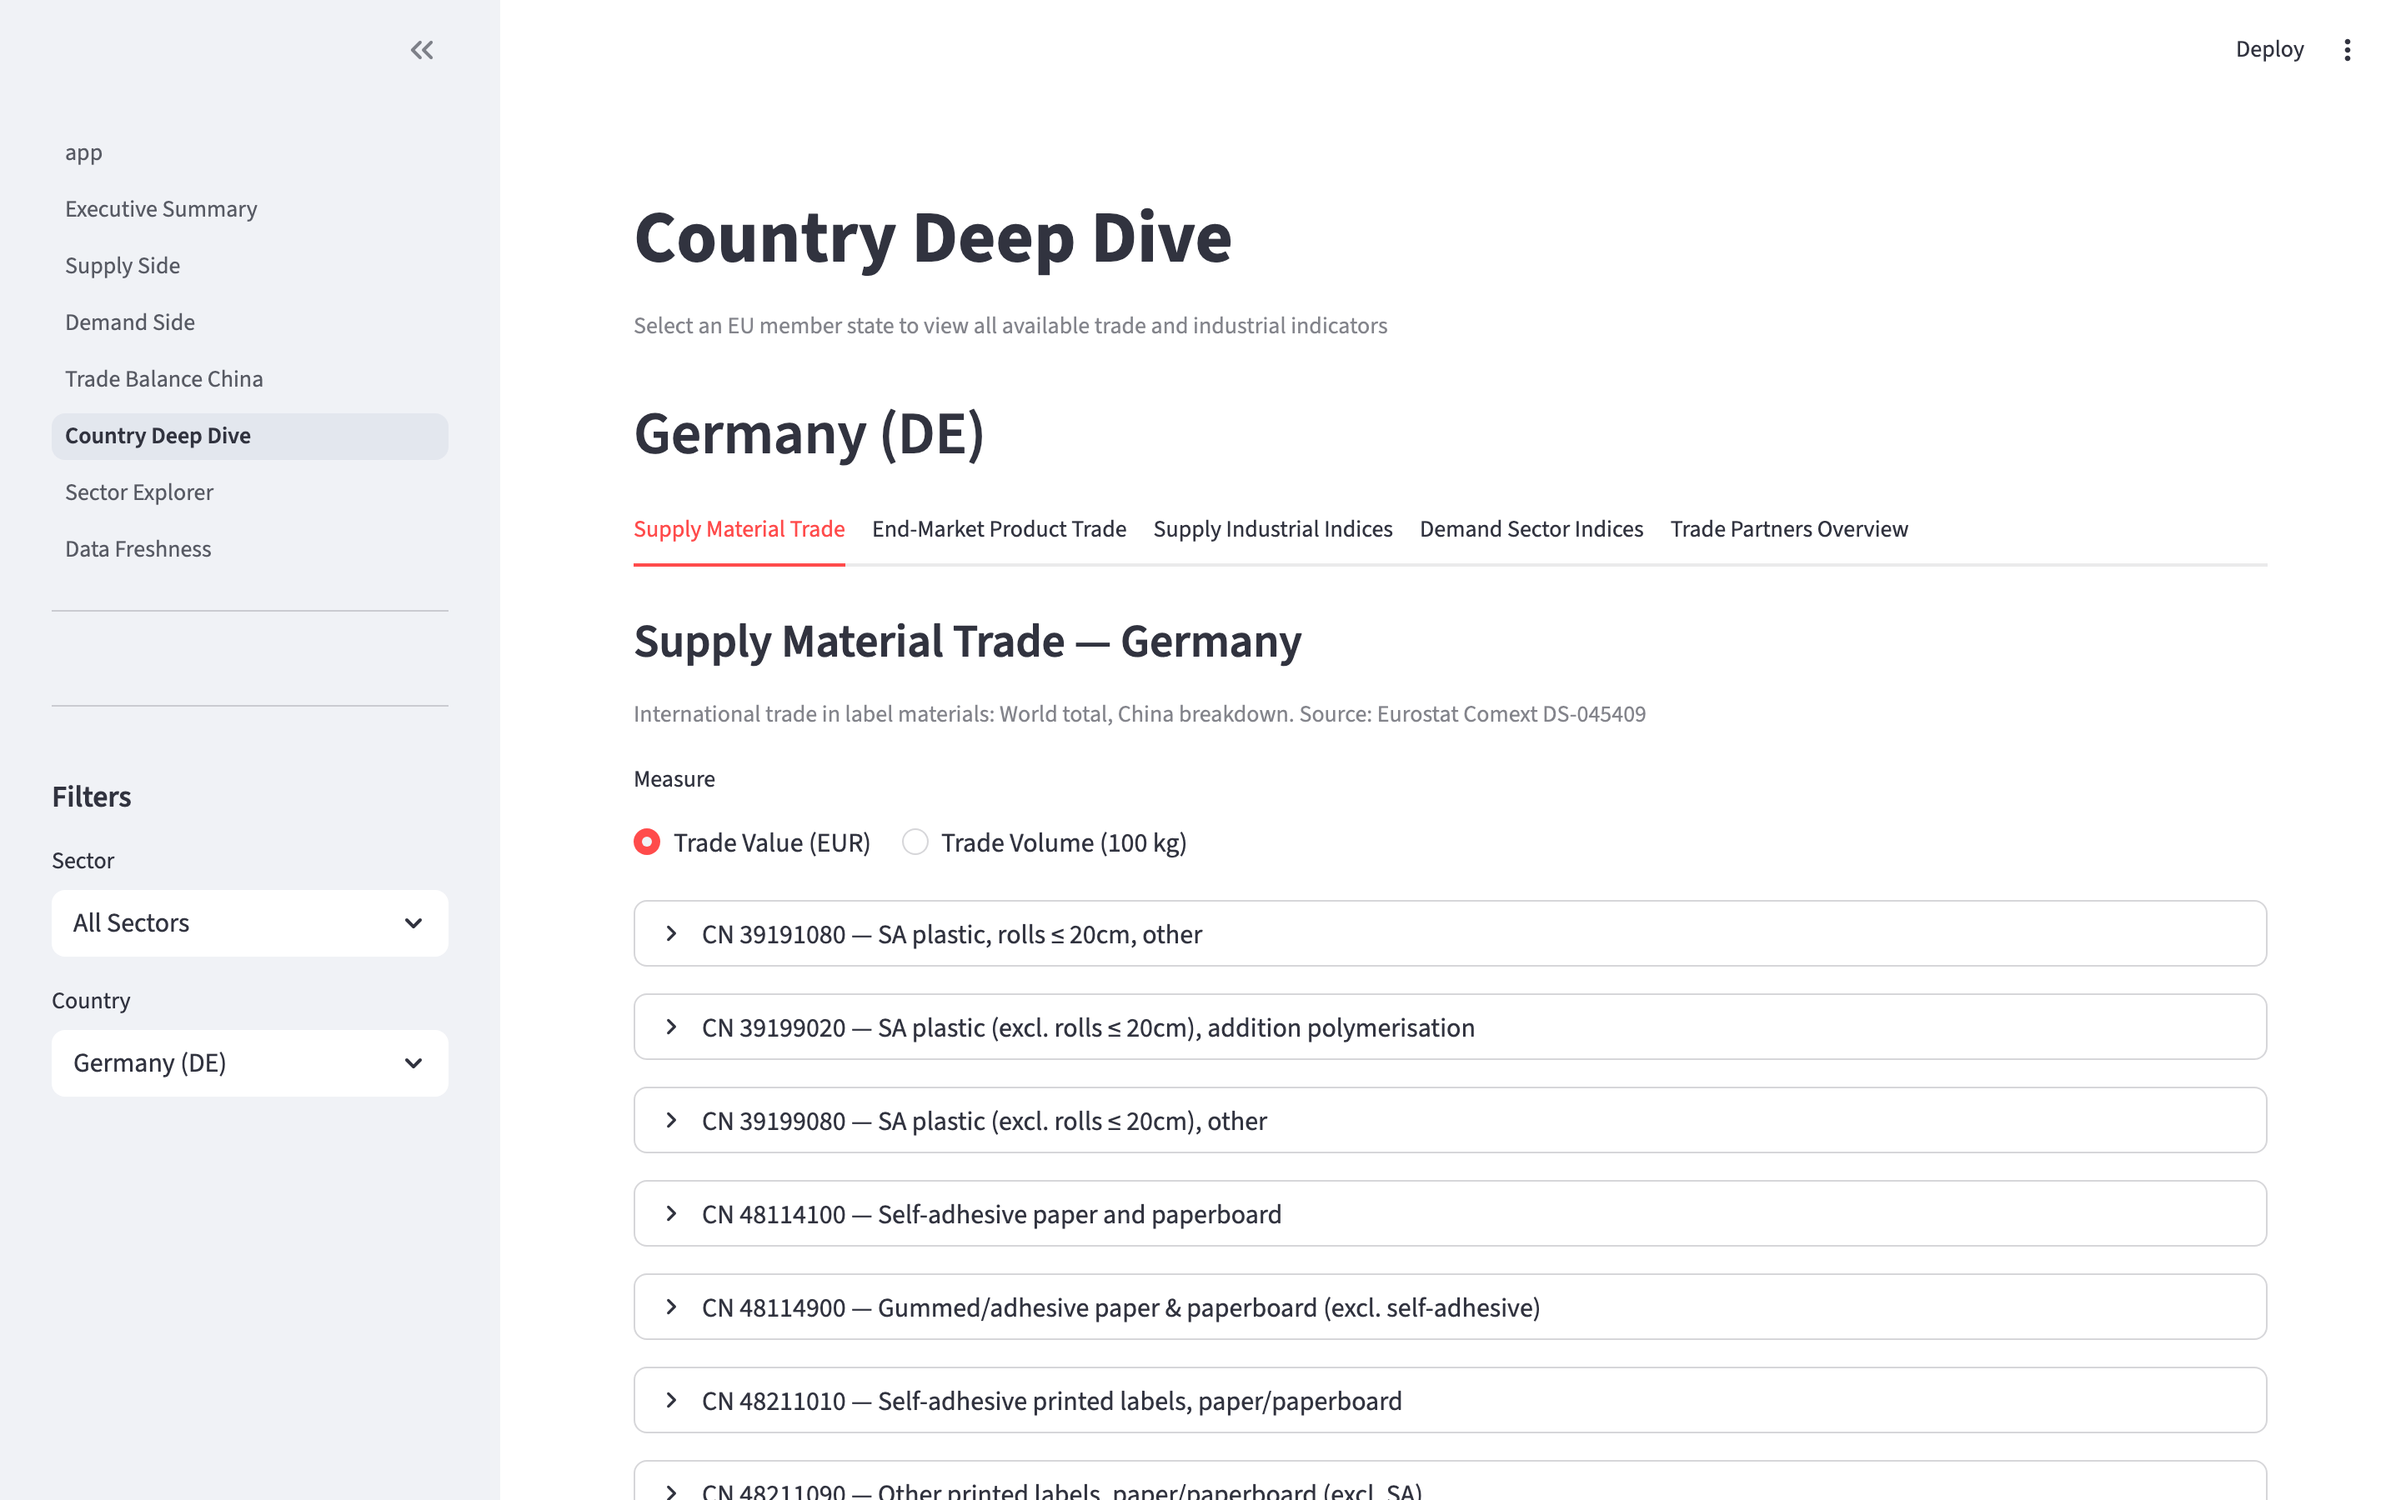
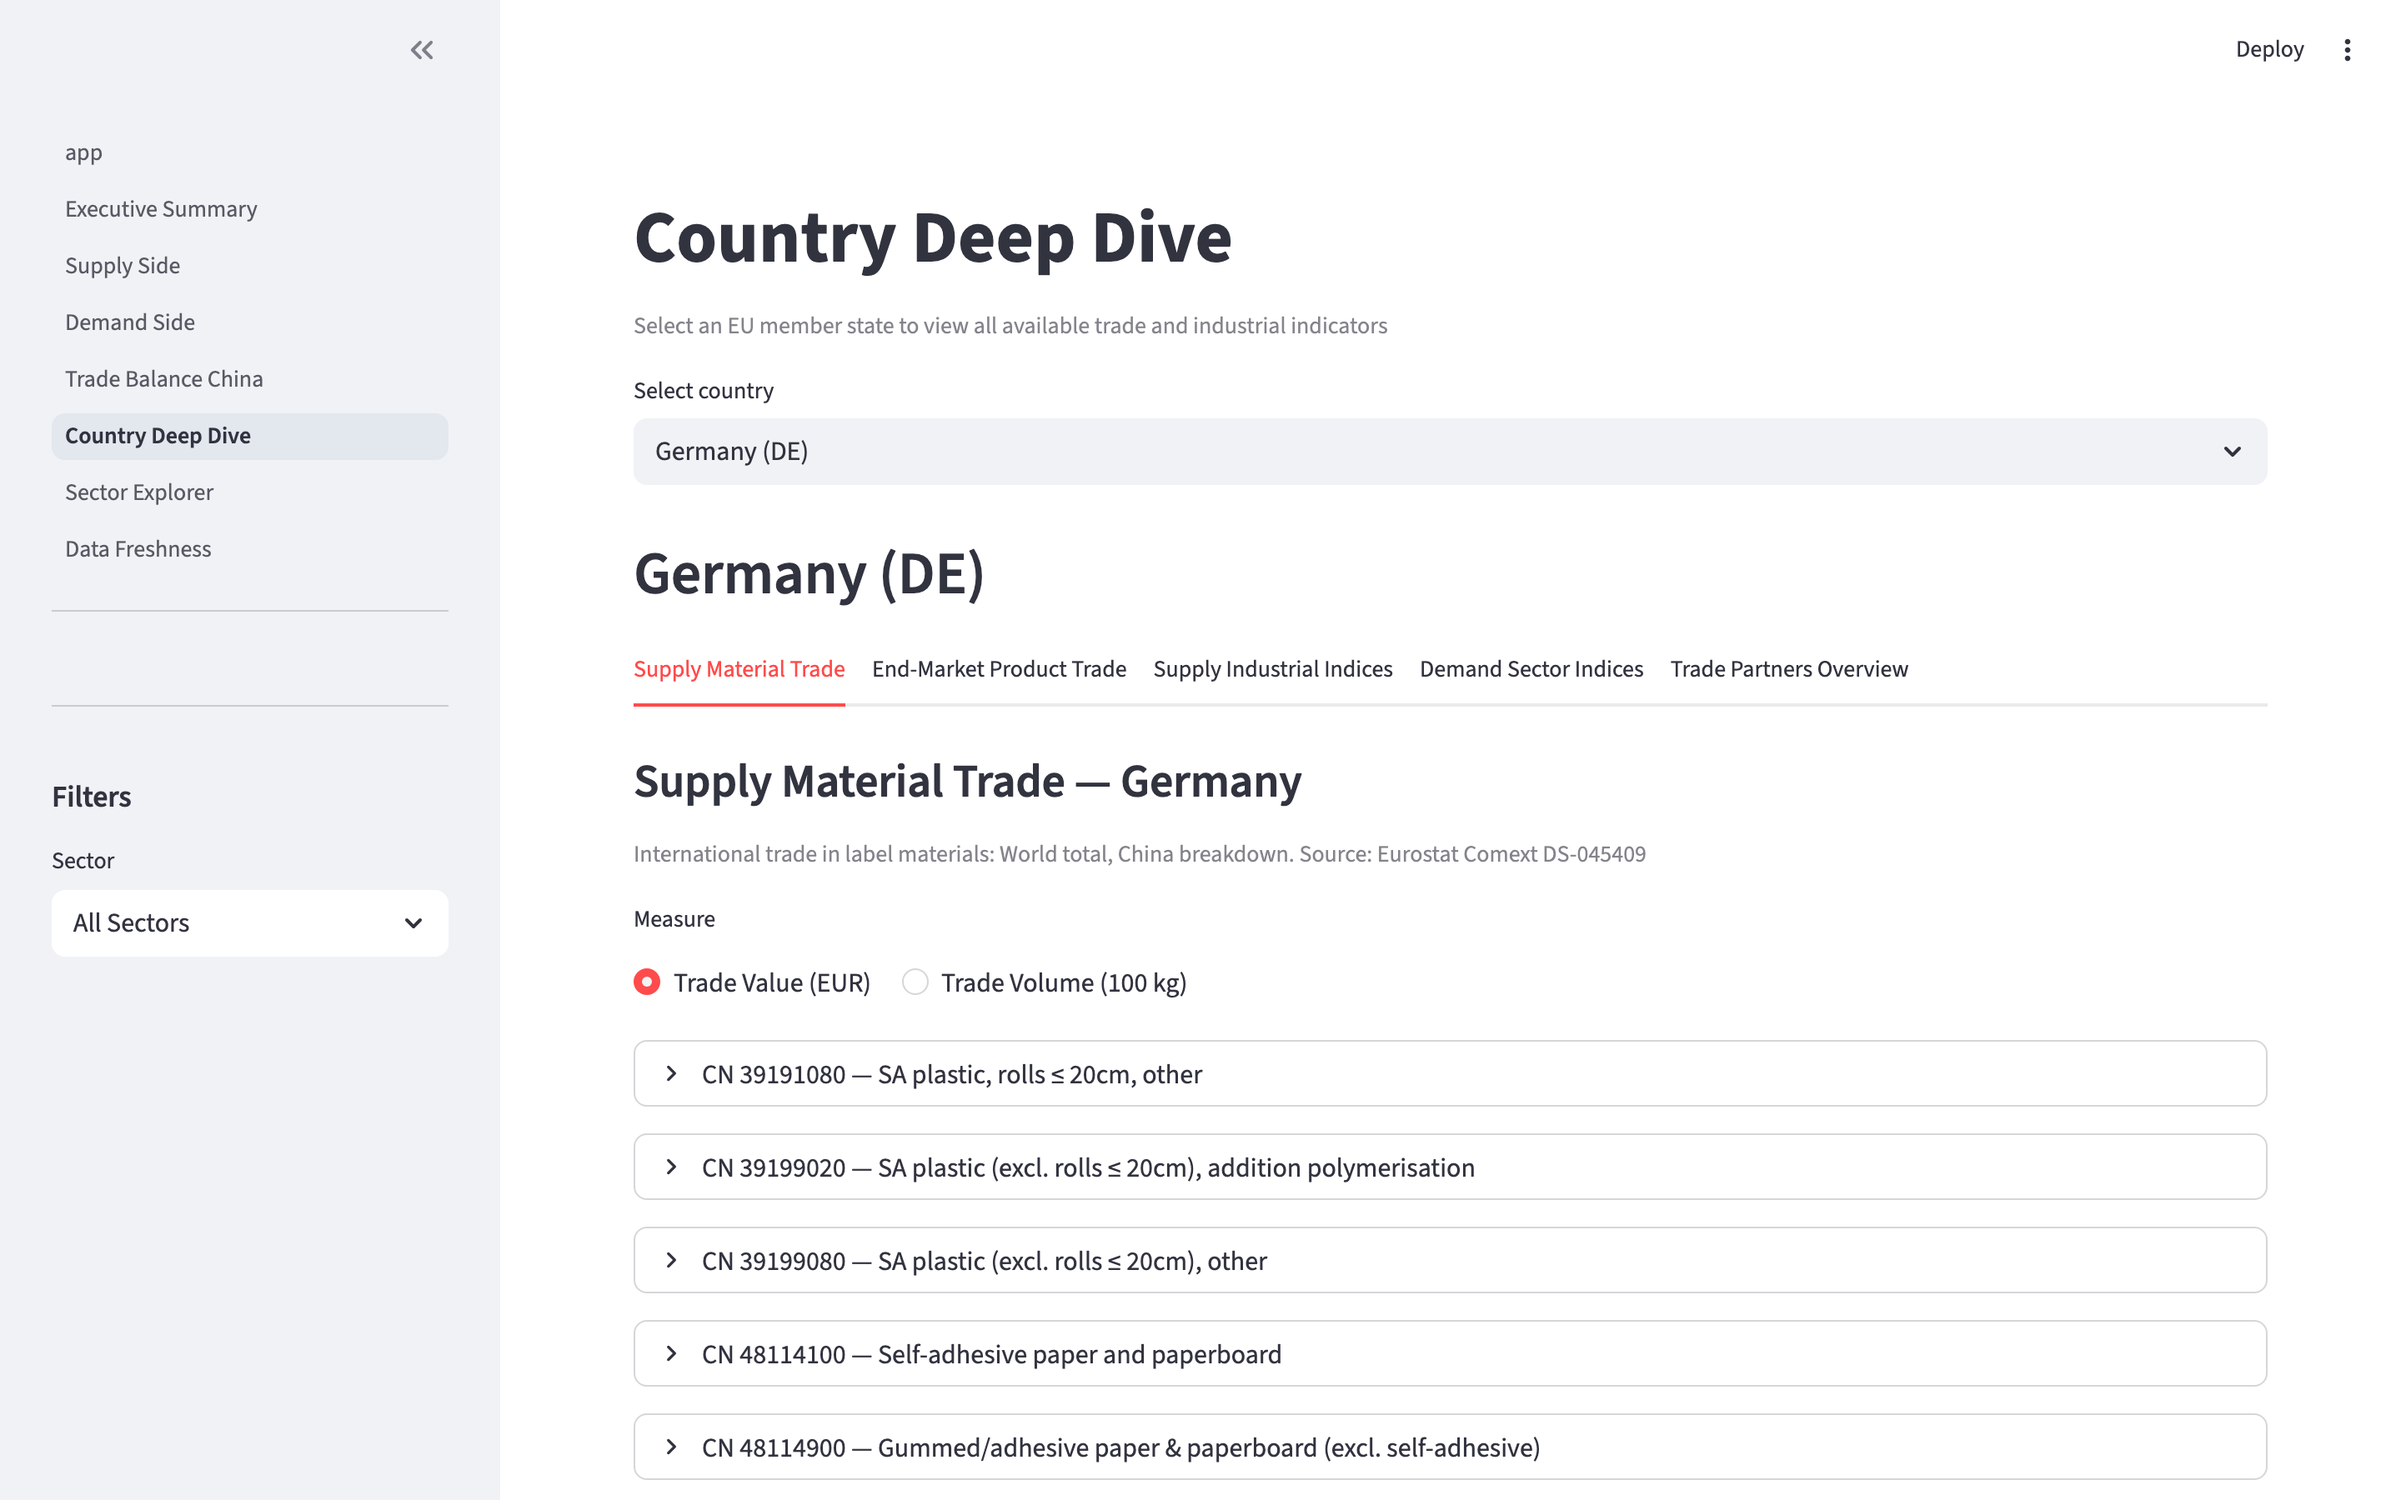
Remove duplicate sidebar filters from Country Deep Dive, Sector Explorer, and Data Freshness
- Data Freshness: remove all sidebar filters (page has its own inline filters)
- Country Deep Dive: remove country from sidebar, restore in-page selectbox (keep sector sidebar only)
- Sector Explorer: remove sidebar entirely, restore in-page sector selectbox and country multiselect

diff --git a/dashboard/pages/7_Data_Freshness.py b/dashboard/pages/7_Data_Freshness.py
@@ -14,7 +14,6 @@ from constants import (
     SUPPLY_CN_CODES, DEMAND_CN_CODES, SUPPLY_NACE, DEMAND_NACE,
     TIER1_DATASETS,
 )
-from sidebar_filters import render_global_filters
 
 st.title("Data Freshness & Publication Lag Monitor")
 st.caption(
@@ -27,11 +26,6 @@ data = st.session_state.get("data")
 if data is None:
     st.error("Data not loaded. Please return to the main page.")
     st.stop()
-
-# --- Sidebar filters (sector only, no country on freshness page) ---
-filters = render_global_filters(show_sector=True, country_mode="none")
-_sector_cn = filters["sector_cn_codes"]
-_sector_nace = filters["sector_nace_codes"]
 
 st.markdown("""
 ### How Eurostat publication lags work
@@ -62,9 +56,6 @@ for key, info in data["freshness"].items():
 
     if key.startswith("comext_"):
         cn_code = key.replace("comext_", "")
-        # Sector filter: skip CN codes not in the selected sector
-        if _sector_cn is not None and cn_code not in _sector_cn:
-            continue
         desc = CN_DESCRIPTIONS.get(cn_code, cn_code)
         category = "Comext Trade (DS-045409)"
         side = "Supply" if cn_code in SUPPLY_CN_CODES else "Demand"
@@ -79,9 +70,6 @@ for key, info in data["freshness"].items():
             dataset, nace = m.group(1), m.group(2)
         else:
             dataset, nace = key, ""
-        # Sector filter: skip NACE codes not in the selected sector
-        if _sector_nace is not None and nace not in _sector_nace:
-            continue
         ds_desc = STS_DATASET_DESCRIPTIONS.get(dataset, dataset)
         nace_desc = NACE_DESCRIPTIONS.get(nace, nace)
         category = "STS Industrial Index"

diff --git a/dashboard/pages/6_Sector_Explorer.py b/dashboard/pages/6_Sector_Explorer.py
@@ -14,7 +14,6 @@ from constants import (
     INDICATOR_LABELS, FLOW_LABELS, freshness_footnote,
 )
 from charts import line_chart, bar_chart_latest, heatmap_yoy, freshness_badge
-from sidebar_filters import render_global_filters
 
 st.title("Sector Explorer")
 st.caption(
@@ -27,15 +26,7 @@ if data is None:
     st.error("Data not loaded. Please return to the main page.")
     st.stop()
 
-# --- Sidebar filters ---
-filters = render_global_filters(show_sector=True, country_mode="multi")
-
-# Default the sector selectbox to the global sidebar sector if one is selected
-_sector_names = list(SECTOR_GROUPS.keys())
-_default_idx = 0
-if filters["sector"] and filters["sector"] in _sector_names:
-    _default_idx = _sector_names.index(filters["sector"])
-sector_name = st.selectbox("Select sector", _sector_names, index=_default_idx)
+sector_name = st.selectbox("Select sector", list(SECTOR_GROUPS.keys()))
 sector = SECTOR_GROUPS[sector_name]
 
 st.markdown(f"### {sector_name}")
@@ -133,7 +124,12 @@ with tab_indices:
                     all_countries.update(set(df["country"]) - AGGREGATE_CODES)
 
         available = sorted(all_countries & set(EU27_CODES))
-        selected = [c for c in filters["countries"] if c in available]
+        default_c = [c for c in ["DE", "FR", "IT", "ES", "PL"] if c in available]
+        selected = st.multiselect(
+            "Select countries", available, default=default_c[:5],
+            format_func=lambda x: COUNTRY_NAMES.get(x, x),
+            key="sector_idx_countries",
+        )
 
         for nace in nace_codes:
             nace_desc = NACE_DESCRIPTIONS.get(nace, nace)

diff --git a/dashboard/pages/5_Country_Deep_Dive.py b/dashboard/pages/5_Country_Deep_Dive.py
@@ -26,12 +26,19 @@ if data is None:
     st.error("Data not loaded. Please return to the main page.")
     st.stop()
 
-# --- Sidebar filters ---
-filters = render_global_filters(show_sector=True, country_mode="single_country")
-country = filters["scope_code"]
-country_name = filters["scope_name"]
+# --- Sidebar filters (sector only) ---
+filters = render_global_filters(show_sector=True, country_mode="none")
 _sector_cn = filters["sector_cn_codes"]
 _sector_nace = filters["sector_nace_codes"]
+
+# --- Country selector (in main area) ---
+country = st.selectbox(
+    "Select country", EU27_CODES,
+    format_func=lambda x: f"{COUNTRY_NAMES.get(x, x)} ({x})",
+    index=EU27_CODES.index("DE") if "DE" in EU27_CODES else 0,
+    key="cd_country",
+)
+country_name = COUNTRY_NAMES.get(country, country)
 st.markdown(f"## {country_name} ({country})")
 
 tab_supply_trade, tab_demand_trade, tab_supply_idx, tab_demand_idx, tab_partners = st.tabs([
